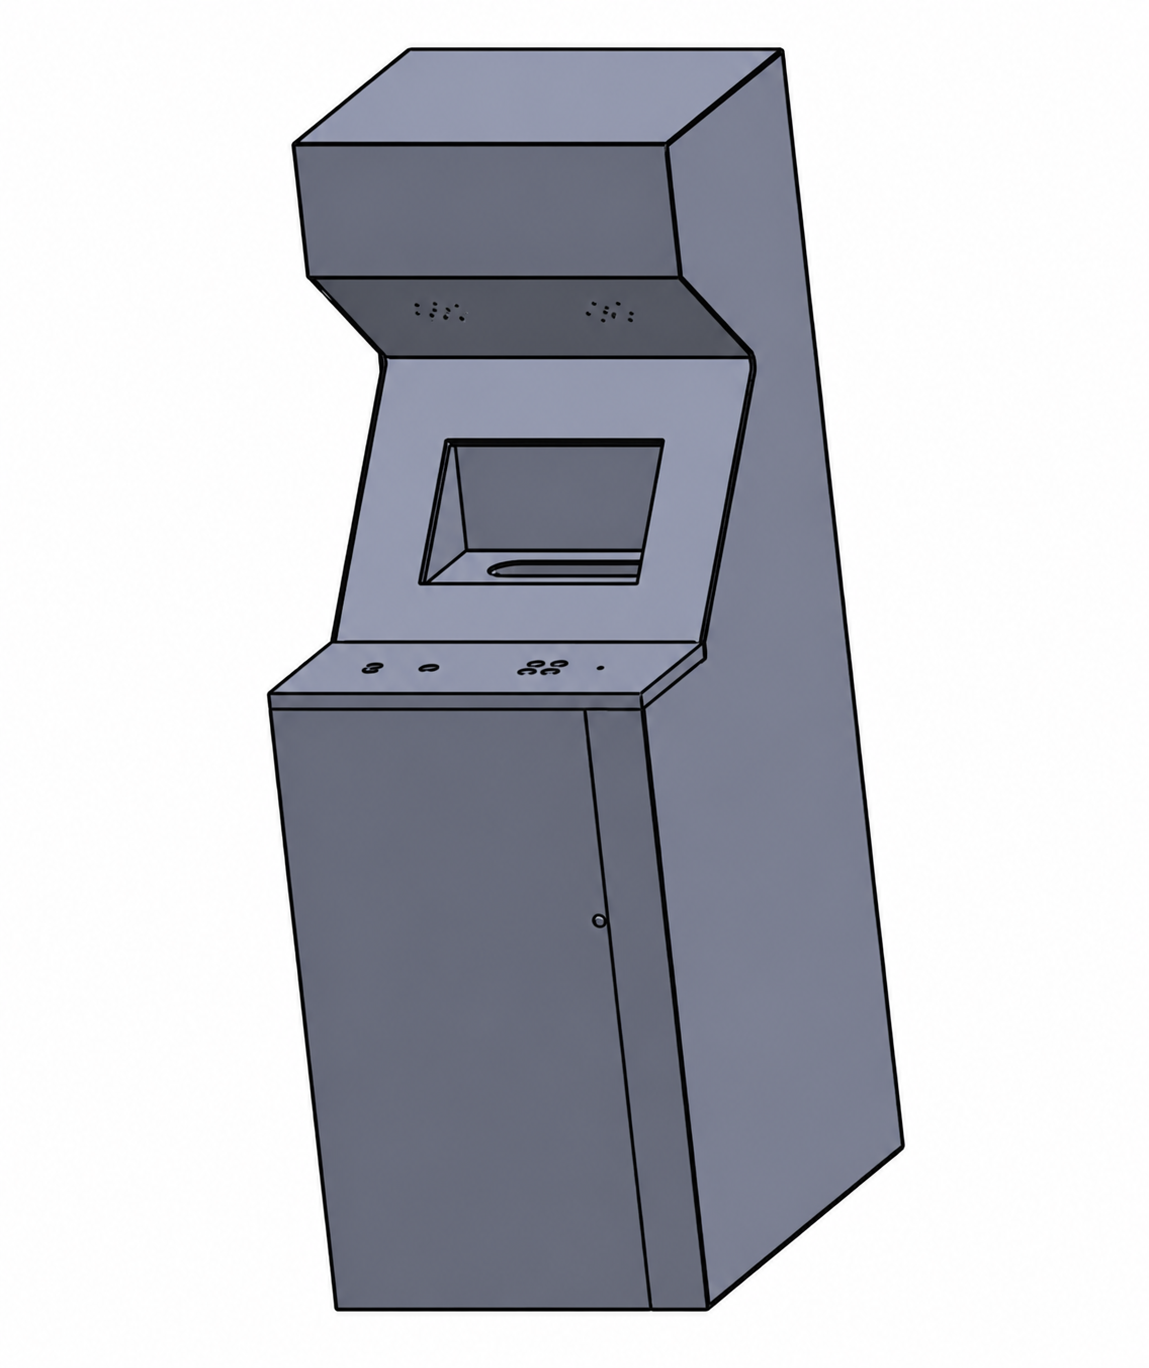
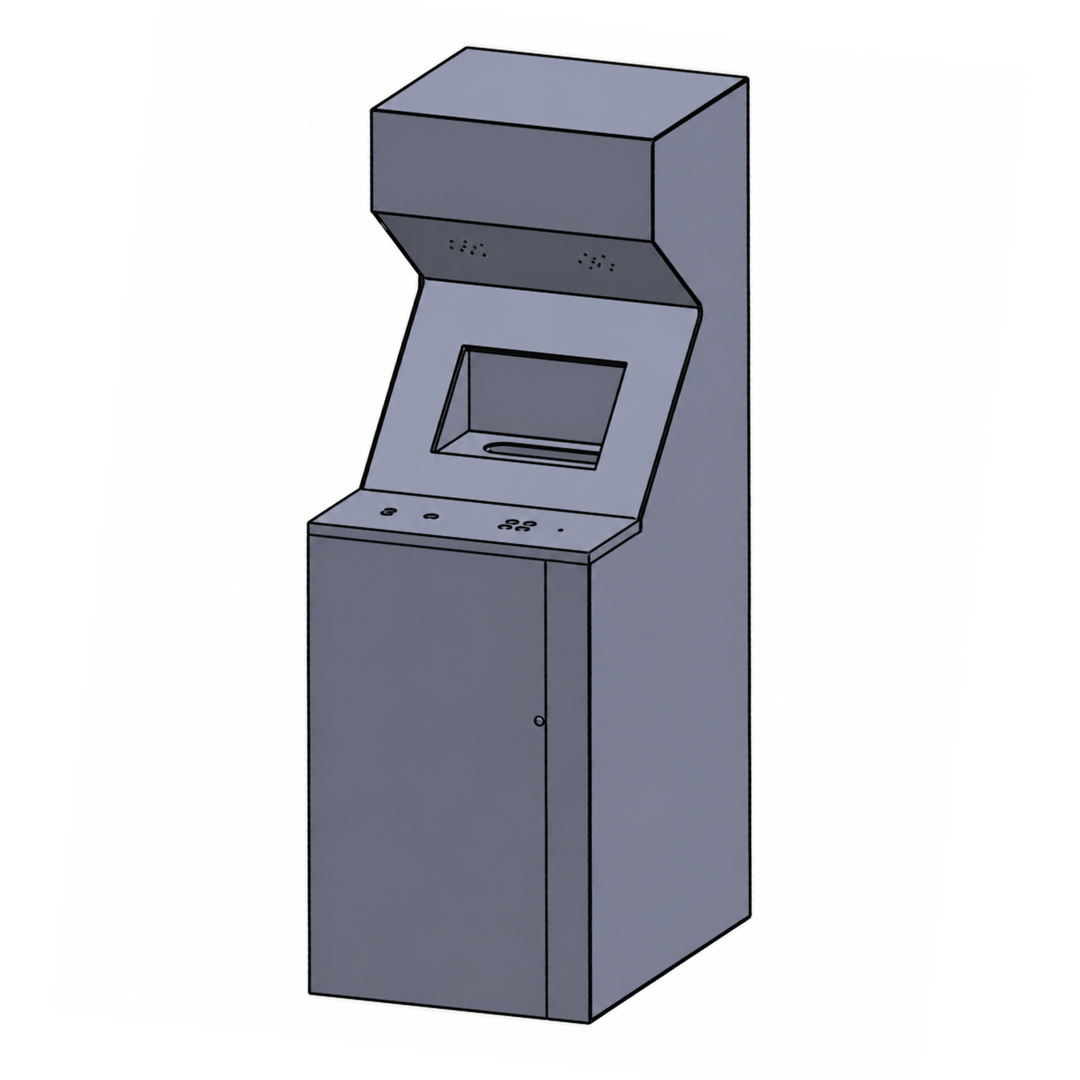
alteração hero para de produção e ajuste fotos ekorama e marquina de pastel

Changed region(s): [[0.2139, 0.0306, 0.7944, 0.9778]]

diff --git a/components/sections/home/Hero.tsx b/components/sections/home/Hero.tsx
@@ -15,7 +15,7 @@ export default function Hero() {
         <h1 className="text-[2.50rem] sm:text-5xl lg:text-6xl font-black text-white/95 leading-[1.18] sm:leading-[1.12] lg:leading-[1.08] max-w-4xl tracking-tight mb-6">
           Soluções em engenharia <br className="hidden md:block" />
           <span className="text-transparent bg-clip-text bg-gradient-to-r from-white/95 to-zinc-400">
-            mecânica, mecatrônica e produção em Curitiba
+            mecânica, mecatrônica e de produção em Curitiba
           </span>
         </h1>
         
